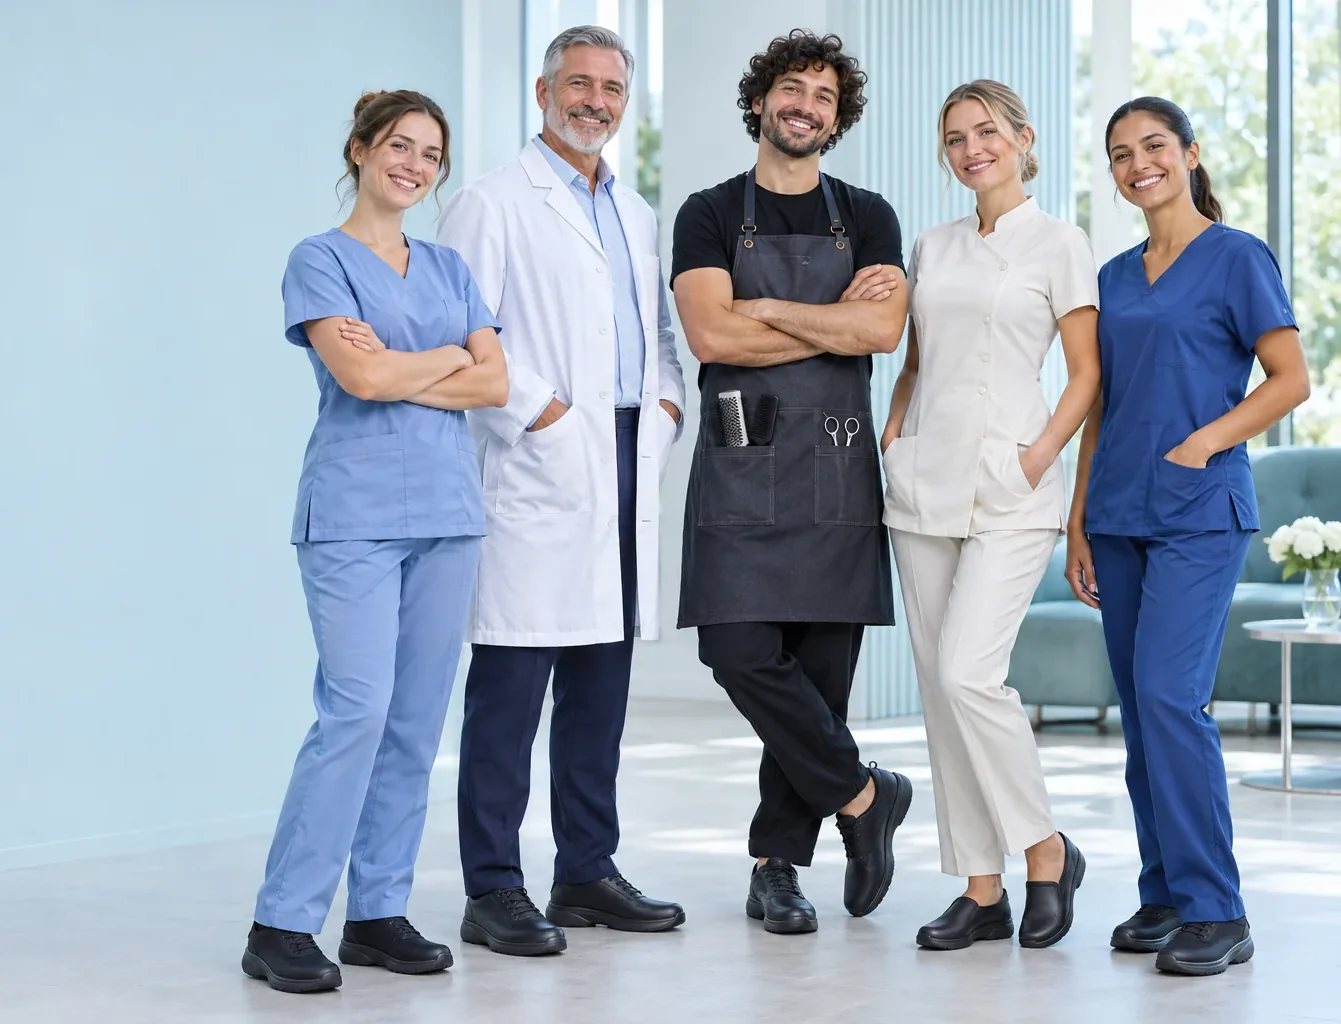
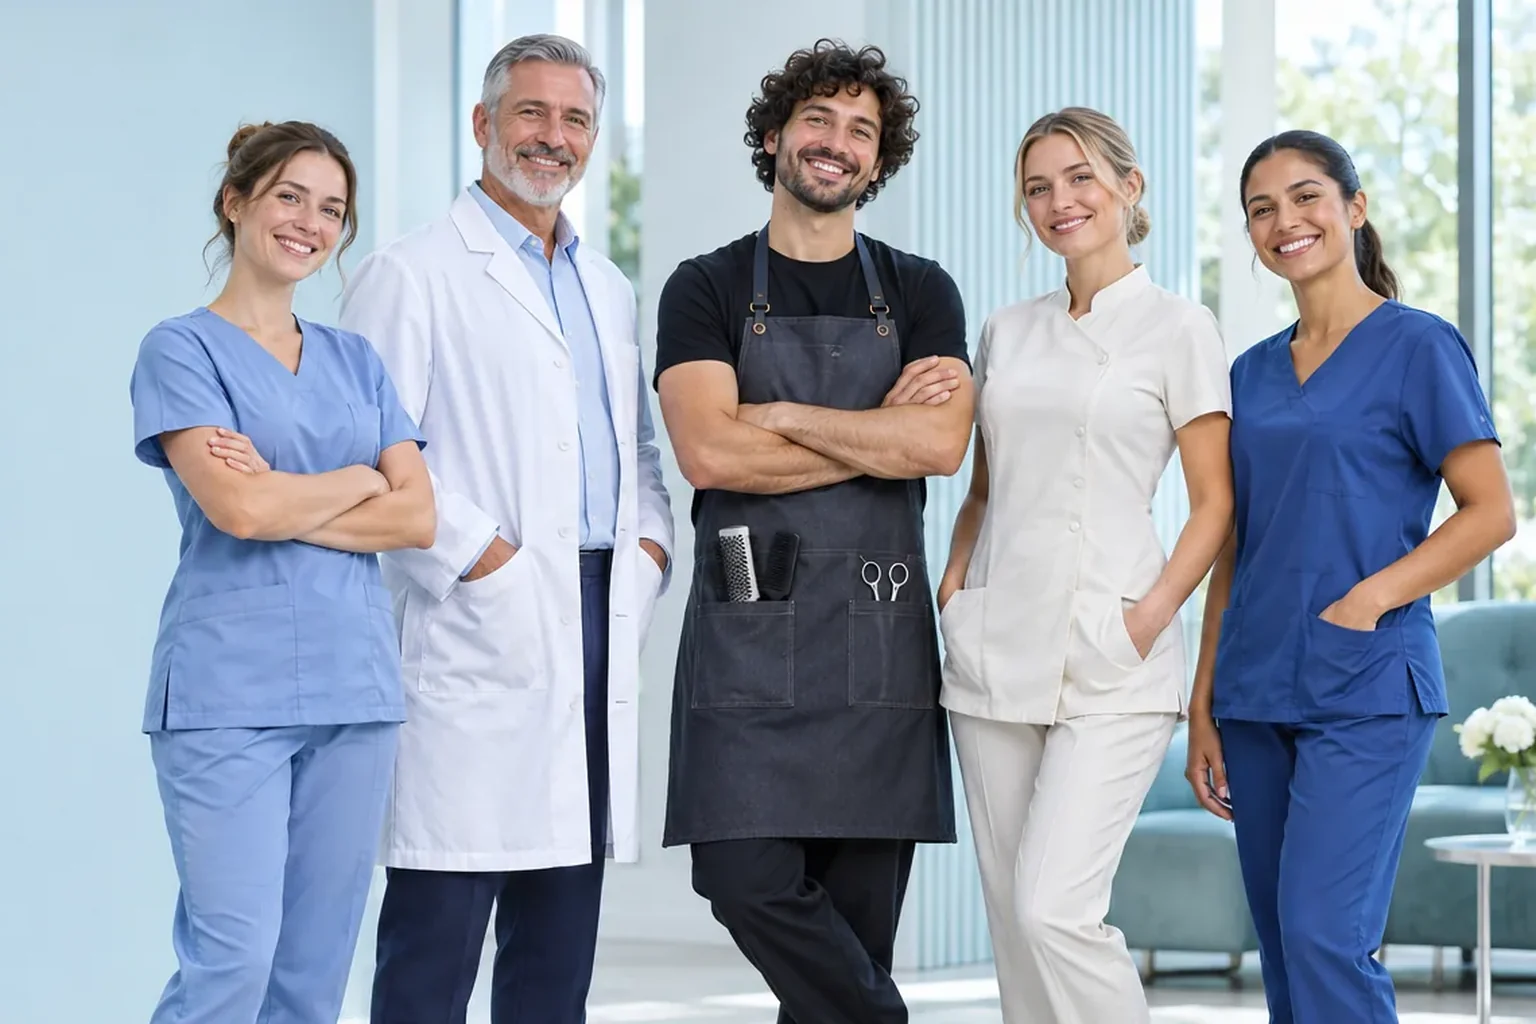
3.3.2: team photo cropped above the shoes (they were not ProMedix models)
Claude-Session: https://claude.ai/code/session_01NdMJoUJVMEzhdk1WuLhHTT

diff --git a/promedix/assets/css/theme.css b/promedix/assets/css/theme.css
@@ -933,8 +933,8 @@ input[type=checkbox], input[type=radio] { accent-color: var(--primary); width: 2
 .pmx-slide__card img { display: block; width: 100%; height: 100%; object-fit: cover; }
 .pmx-slide--care .pmx-slide__card { right: 0; top: 7%; bottom: 9%; aspect-ratio: 3 / 4; }
 .pmx-slide--care .pmx-slide__img { position: relative; z-index: 2; margin-right: 34% !important; filter: drop-shadow(0 18px 24px rgba(20,45,56,.14)); }
-.pmx-slide--team .pmx-slide__card { position: relative !important; width: 100%; max-width: 620px; aspect-ratio: 1341 / 1024; max-height: calc(100% - 32px); }
-.pmx-slide--team .pmx-slide__card img { object-position: center 25%; }
+.pmx-slide--team .pmx-slide__card { position: relative !important; width: 100%; max-width: 620px; aspect-ratio: 3 / 2; max-height: calc(100% - 32px); }
+.pmx-slide--team .pmx-slide__card img { object-position: center top; }
 @media (max-width: 960px) {
   .pmx-slide--care .pmx-slide__card { display: none; }
   .pmx-slide--care .pmx-slide__img { margin-right: 0 !important; }

diff --git a/promedix/style.css b/promedix/style.css
@@ -2,7 +2,7 @@
 Theme Name: ProMedix
 Theme URI: https://promedix.com.ua/
 Description: Блокова тема для інтернет-магазину медичного взуття ProMedix. Теплий кремовий стиль, шрифти Lora та Inter. Акцент на гуртових і корпоративних продажах, WooCommerce, сумісність з WPML (uk/ru). Без Elementor.
-Version: 3.3.1
+Version: 3.3.2
 Requires at least: 6.6
 Tested up to: 7.1
 Requires PHP: 8.1

diff --git a/promedix/functions.php b/promedix/functions.php
@@ -7,7 +7,7 @@
 
 defined( 'ABSPATH' ) || exit;
 
-define( 'PROMEDIX_VERSION', '3.3.1' );
+define( 'PROMEDIX_VERSION', '3.3.2' );
 
 require_once get_theme_file_path( 'inc/helpers.php' );
 require_once get_theme_file_path( 'inc/shortcodes.php' );
